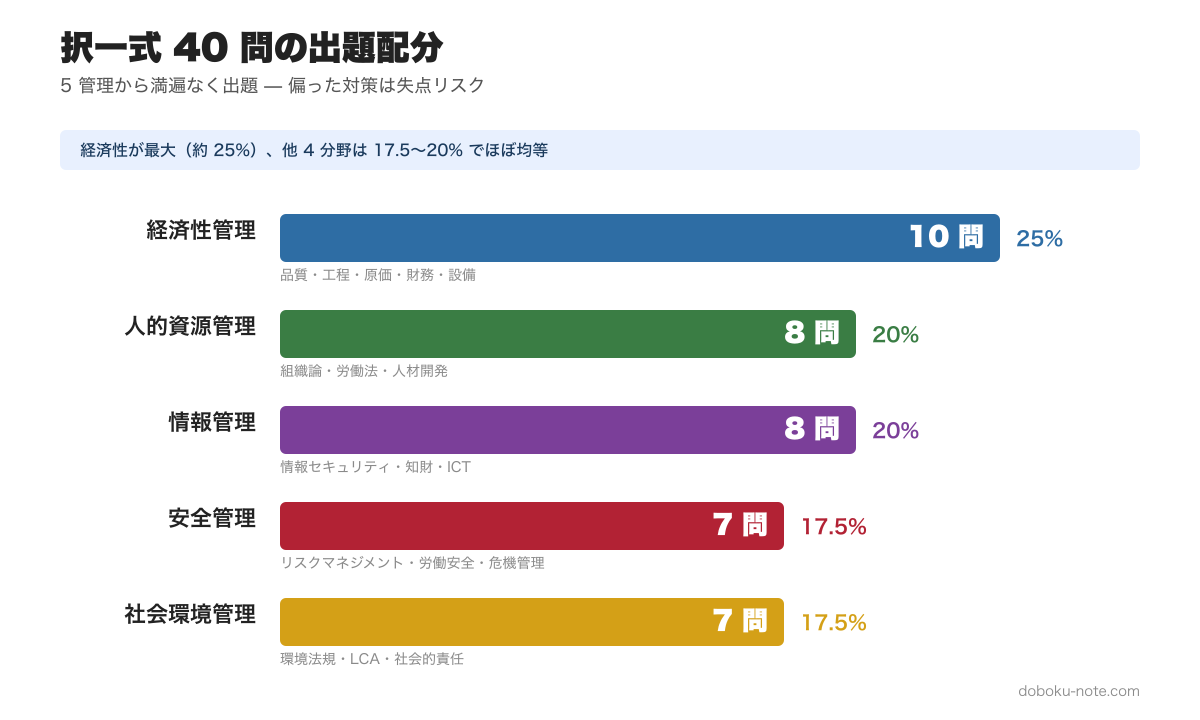
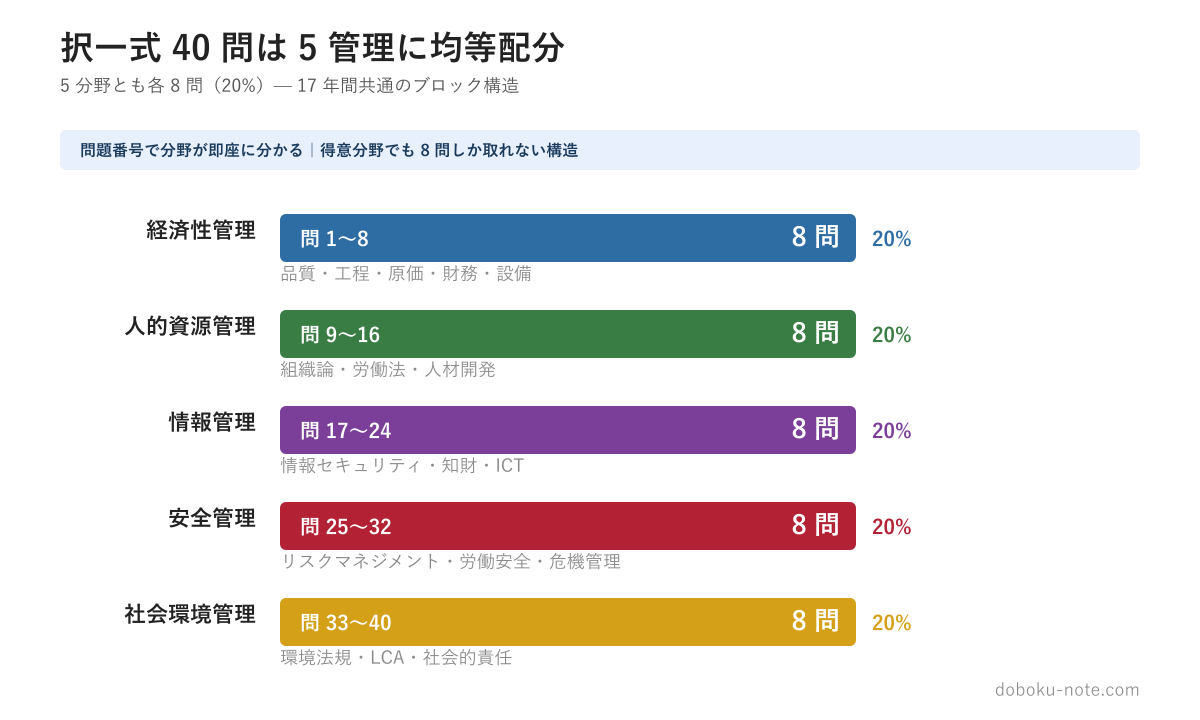
content(note): 02 ドラフト「択一式40問の出題配分」を均等配分に修正
- 本文: 「経済性10〜12問、他6〜8問」→「各 8 問均等」に書き換え
  17 年分の過去問構造（問1〜8経済性／問9〜16人的資源／問17〜24情報／問25〜32安全／問33〜40社会環境）と整合
- figure-2-distribution.svg: 5 バー均等（8 問 20%）に再描画、問題番号レンジ併記
- フォントサイズを note-svg-policy 準拠に引き上げ（14→18px）
- PNG 再生成（sharp）

公開済 90 記事の記述および exam-index ページ／実過去問データと矛盾していたため、note 公開前に整合修正。

diff --git a/docs/note-drafts/02-一般部門との違い/article.md b/docs/note-drafts/02-一般部門との違い/article.md
@@ -37,7 +37,7 @@
 - **安全管理** -- リスクマネジメント・労働安全衛生・危機管理
 - **社会環境管理** -- 環境法規・LCA・社会的責任
 
-択一式では、この5分野から満遍なく40問が出題されます。経済性管理だけで10~12問、人的資源管理・情報管理・安全管理・社会環境管理からそれぞれ6~8問という配分です。一般部門のように「得意分野で得点を稼いで苦手分野をカバーする」戦略が取りにくい構造になっています。
+択一式では、この5分野から **各 8 問ずつ均等に** 出題されます（問 1〜8 が経済性管理、問 9〜16 が人的資源管理、問 17〜24 が情報管理、問 25〜32 が安全管理、問 33〜40 が社会環境管理）。境界的な問題で年度により ±1〜2 問の揺らぎはありますが、ブロック構造は 17 年間ほぼ共通です。一般部門のように「得意分野で得点を稼いで苦手分野をカバーする」戦略が取りにくい構造になっています。
 
 ![択一式 40 問の出題配分](img/figure-2-distribution.png)
 
